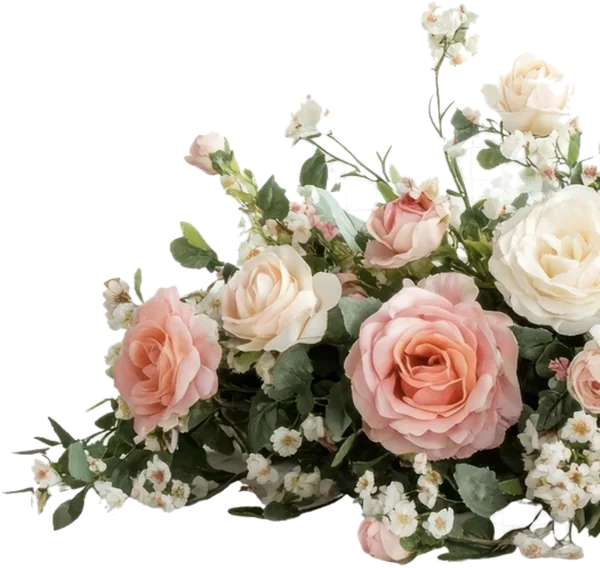
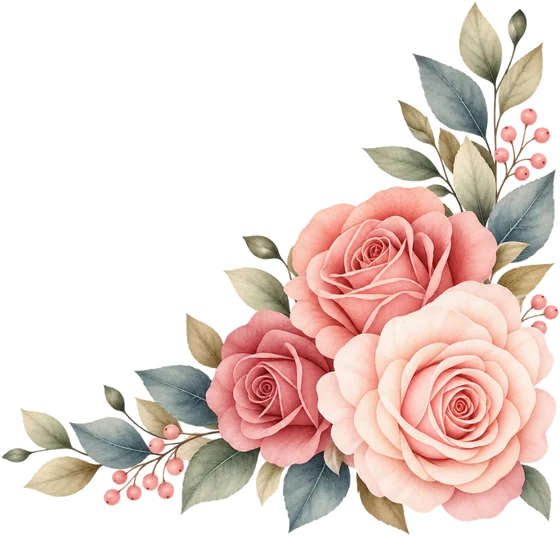
Replace the photographic flowers with the painted ones
The watercolour roses are already in the page's own dusty rose and sage,
so they sit with the type far better than the photographs did - and
mixing painted and photographic flowers would have clashed the same way
the drawn clip art once clashed with the photographs.

  3.png -> corner.webp   corner sprays, turned 180 so the blooms land in
                         the corner and the foliage trails inward
  4.png -> garland.webp  the swag along the foot of every passage
  5.png -> sprig.webp    the divider between passages, replacing the gold
                         rule and its rosette
  2.png -> rose.webp     one bloom, cropped out for the drifting petals

All four were cut from white by flood-filling in from the border, then
opening away the thin scraps. The pale petals survive because every
flower here is pink or sage while the paper is neutral.

The per-palette tints are much gentler now; these need nudging, not the
correction the photographs wanted. The swag keeps a soft top fade so the
last line of a passage stays legible where the foliage reaches it.

6.png is cut and ready in the scratch but unused - 3.png already covers
the corners.

diff --git a/index.html b/index.html
@@ -34,7 +34,7 @@ body{margin:0;font-family:var(--f-body);font-size:1rem;line-height:1.6;backgroun
   --gold:#9C5560; --goldhi:#EBD3CE;
   --ink:#7A2433;  --inkSoft:#9A5862; --inkFaint:rgba(122,36,51,.48);
   --accent:#C98B95; --leaf:#8A8E6B; --orn2:#B99C92;
-  --bloomTint:saturate(.72) hue-rotate(-5deg) brightness(.99) contrast(.96);
+  --bloomTint:none;
 }
 .haldi{
   --sky1:#A9C6CE; --sky2:#7A9FAD; --sky3:#54798C;
@@ -42,7 +42,7 @@ body{margin:0;font-family:var(--f-body);font-size:1rem;line-height:1.6;backgroun
   --gold:#C08A4E; --goldhi:#F0DCB8;
   --ink:#FFF6EE;  --inkSoft:rgba(255,246,238,.93); --inkFaint:rgba(255,246,238,.6);
   --accent:#D79A5A; --leaf:#7E8C66; --orn2:#D8C3A0;
-  --bloomTint:saturate(.78) hue-rotate(20deg) brightness(1.02) contrast(.95);
+  --bloomTint:hue-rotate(18deg) saturate(1.08);
 }
 .sangeet{
   --sky1:#3D3652; --sky2:#2A2439; --sky3:#191525;
@@ -50,7 +50,7 @@ body{margin:0;font-family:var(--f-body);font-size:1rem;line-height:1.6;backgroun
   --gold:#C9A47E; --goldhi:#EBD6BC;
   --ink:#F4E7DE;  --inkSoft:rgba(244,231,222,.88); --inkFaint:rgba(244,231,222,.56);
   --accent:#B98FA0; --leaf:#4A4162; --orn2:#8E7A86;
-  --bloomTint:saturate(.45) sepia(.28) brightness(.66) contrast(.95);
+  --bloomTint:saturate(.62) sepia(.2) brightness(.76);
 }
 .vivah{
   --sky1:#E9D9D3; --sky2:#DEB7A6; --sky3:#CF9B8D;
@@ -58,7 +58,7 @@ body{margin:0;font-family:var(--f-body);font-size:1rem;line-height:1.6;backgroun
   --gold:#A5603F; --goldhi:#EFD5BE;
   --ink:#6B2433;  --inkSoft:#8E4C52; --inkFaint:rgba(107,36,51,.5);
   --accent:#C98A78; --leaf:#8A8E6B; --orn2:#C6A592;
-  --bloomTint:saturate(.8) hue-rotate(4deg) brightness(1) contrast(.95);
+  --bloomTint:hue-rotate(4deg);
 }
 .reception{
   --sky1:#C6B4C8; --sky2:#A693B0; --sky3:#857791;
@@ -66,7 +66,7 @@ body{margin:0;font-family:var(--f-body);font-size:1rem;line-height:1.6;backgroun
   --gold:#D9BA96; --goldhi:#F0DCC6;
   --ink:#FBF1EC;  --inkSoft:rgba(251,241,236,.9); --inkFaint:rgba(251,241,236,.58);
   --accent:#C4A0BC; --leaf:#625873; --orn2:#B9A6B8;
-  --bloomTint:saturate(.62) hue-rotate(-16deg) brightness(.9) contrast(.95);
+  --bloomTint:hue-rotate(-14deg) saturate(.98);
 }
 
 /* ---------------- the fixed backdrop that crossfades ---------------- */
@@ -105,22 +105,18 @@ body{margin:0;font-family:var(--f-body);font-size:1rem;line-height:1.6;backgroun
 .sangeet .bokeh,.reception .bokeh{opacity:.9;animation:twinkle 7s ease-in-out infinite}
 @keyframes twinkle{0%,100%{filter:brightness(1)}50%{filter:brightness(1.45)}}
 /* real roses, cut from the photographs; each palette tints its own copy */
-.garland{position:absolute;left:50%;bottom:-6%;transform:translateX(-50%);
-  width:min(560px,106%);height:auto;filter:var(--bloomTint,none);
-  /* the tall stems dissolve into the sky instead of ending on a hard edge */
-  -webkit-mask-image:linear-gradient(to top,#000 58%,rgba(0,0,0,0) 100%);
-  mask-image:linear-gradient(to top,#000 58%,rgba(0,0,0,0) 100%)}
-/* sprays hanging from the top corners, turned over so the stems point up */
-.corner{position:absolute;top:0;width:min(186px,40%);height:auto;
-  filter:var(--bloomTint,none);opacity:.95;
-  /* in element space: solid at its foot, fading at its head. The 180deg turn
-     then puts the solid end against the top of the screen. */
-  -webkit-mask-image:linear-gradient(to top,#000 55%,rgba(0,0,0,0) 100%);
-  mask-image:linear-gradient(to top,#000 55%,rgba(0,0,0,0) 100%)}
-/* translate before rotate, so the shift stays in screen axes and lifts the
-   sprays toward the top edge instead of dropping them */
-.corner.l{left:-9%;transform:translateY(-19%) rotate(180deg)}
-.corner.r{right:-9%;transform:translateY(-19%) rotate(180deg) scaleX(-1)}
+.garland{position:absolute;left:50%;bottom:-3%;transform:translateX(-50%);
+  width:min(560px,104%);height:auto;filter:var(--bloomTint,none);
+  /* the topmost leaves fade out, so where the swag reaches a line of text
+     the words stay legible instead of sitting on painted foliage */
+  -webkit-mask-image:linear-gradient(to top,#000 68%,rgba(0,0,0,0) 100%);
+  mask-image:linear-gradient(to top,#000 68%,rgba(0,0,0,0) 100%)}
+/* painted corner sprays; the 180deg turn puts their blooms in the corner
+   and lets the foliage trail inward, so no mask is needed */
+.corner{position:absolute;top:0;width:min(208px,44%);height:auto;
+  filter:var(--bloomTint,none);opacity:.96}
+.corner.l{left:-3%;transform:rotate(180deg)}
+.corner.r{right:-3%;transform:rotate(180deg) scaleX(-1)}
 
 /* a long printed scroll has edges; these stay put while the words move */
 
@@ -169,10 +165,8 @@ main{position:relative;z-index:2}
 .band.haldi,.band.sangeet,.band.reception{text-shadow:0 1px 12px rgba(10,22,46,.5)}
 
 /* the join between one passage and the next */
-.seam{display:flex;align-items:center;gap:13px;width:min(260px,76%);margin:0 auto;padding-block:6px}
-.seam .r{flex:1;height:1px;background:linear-gradient(90deg,transparent,var(--gold),transparent);opacity:.75}
-.seam .s{width:13px;height:13px;color:var(--gold);flex:none}
-.seam .s svg{display:block;width:100%;height:100%}
+.seam{display:flex;justify-content:center;padding-block:2px}
+.seam img{width:min(236px,58%);height:auto;opacity:.9}
 
 a.btn,button.btn{
   font-family:var(--f-disp);font-size:.7rem;letter-spacing:.16em;text-transform:uppercase;
@@ -276,10 +270,6 @@ a.btn:focus-visible,button.btn:focus-visible,button:focus-visible,input:focus-vi
 </style>
 
 <svg width="0" height="0" aria-hidden="true" focusable="false" style="position:absolute">
-  <symbol id="rosette8" viewBox="0 0 40 40">
-      <path fill="currentColor" d="M24.42 20 Q24.42 25.1 37 20 Q24.42 14.9 24.42 20 Z M23.13 23.13 Q19.52 26.73 32.02 32.02 Q26.73 19.52 23.13 23.13 Z M20 24.42 Q14.9 24.42 20 37 Q25.1 24.42 20 24.42 Z M16.87 23.13 Q13.27 19.52 7.98 32.02 Q20.48 26.73 16.87 23.13 Z M15.58 20 Q15.58 14.9 3 20 Q15.58 25.1 15.58 20 Z M16.87 16.87 Q20.48 13.27 7.98 7.98 Q13.27 20.48 16.87 16.87 Z M20 15.58 Q25.1 15.58 20 3 Q14.9 15.58 20 15.58 Z M23.13 16.87 Q26.73 20.48 32.02 7.98 Q19.52 13.27 23.13 16.87 Z"/>
-      <circle cx="20" cy="20" r="3.2" fill="var(--orn2,#B99C92)"/>
-  </symbol>
 
   <symbol id="lotus" viewBox="0 0 48 30">
     <g fill="none" stroke="currentColor" stroke-width="1.2">
@@ -414,7 +404,7 @@ a.btn:focus-visible,button.btn:focus-visible,button:focus-visible,input:focus-vi
   <p class="caps strong">20 &amp; 21 November 2026 &middot; Lucknow</p>
 </section>
 
-<div class="seam"><span class="r"></span><span class="s"><svg><use href="#rosette8"/></svg></span><span class="r"></span></div>
+<div class="seam"><img src="assets/sprig.webp" alt="" decoding="async"></div>
 
 <section class="band ivory" data-label="The couple" aria-labelledby="h2">
   <p class="lede">With the blessings of Lord Ganesha and of the elders of our family</p>
@@ -434,7 +424,7 @@ a.btn:focus-visible,button.btn:focus-visible,button:focus-visible,input:focus-vi
   <p class="parent">Daughter of Late Mithlesh &amp; Mr. Chandra Prakash Srivastava</p>
 </section>
 
-<div class="seam"><span class="r"></span><span class="s"><svg><use href="#rosette8"/></svg></span><span class="r"></span></div>
+<div class="seam"><img src="assets/sprig.webp" alt="" decoding="async"></div>
 
 <section class="band ivory" data-label="Countdown" aria-labelledby="h3">
   <p class="eyebrow">Saturday, 21 November 2026</p>
@@ -453,7 +443,7 @@ a.btn:focus-visible,button.btn:focus-visible,button:focus-visible,input:focus-vi
   <p class="note" id="cdNote">Counted to 10:00 a.m. India Standard Time, when the baraat reaches the gate.</p>
 </section>
 
-<div class="seam"><span class="r"></span><span class="s"><svg><use href="#rosette8"/></svg></span><span class="r"></span></div>
+<div class="seam"><img src="assets/sprig.webp" alt="" decoding="async"></div>
 
 <section class="band haldi" data-label="Haldi" aria-labelledby="h4">
   <h2 id="h4" class="script evt">Haldi</h2>
@@ -469,7 +459,7 @@ a.btn:focus-visible,button.btn:focus-visible,button:focus-visible,input:focus-vi
   <a class="btn" target="_blank" rel="noopener" href="https://calendar.google.com/calendar/render?action=TEMPLATE&amp;text=Haldi%20%E2%80%94%20Saharsh%20weds%20Shreya&amp;dates=20261120T043000Z/20261120T073000Z&amp;location=Scorpio%20Club%2C%20Kursi%20Road%2C%20Lucknow&amp;details=Haldi%20ceremony%20of%20Saharsh%20and%20Shreya.">Add to calendar</a>
 </section>
 
-<div class="seam"><span class="r"></span><span class="s"><svg><use href="#rosette8"/></svg></span><span class="r"></span></div>
+<div class="seam"><img src="assets/sprig.webp" alt="" decoding="async"></div>
 
 <section class="band sangeet" data-label="Sangeet" aria-labelledby="h5">
   <h2 id="h5" class="script evt">Sangeet</h2>
@@ -485,7 +475,7 @@ a.btn:focus-visible,button.btn:focus-visible,button:focus-visible,input:focus-vi
   <a class="btn" target="_blank" rel="noopener" href="https://calendar.google.com/calendar/render?action=TEMPLATE&amp;text=Sangeet%20%E2%80%94%20Saharsh%20weds%20Shreya&amp;dates=20261120T123000Z/20261120T163000Z&amp;location=Scorpio%20Club%2C%20Kursi%20Road%2C%20Lucknow&amp;details=Sangeet%20evening%20of%20Saharsh%20and%20Shreya.">Add to calendar</a>
 </section>
 
-<div class="seam"><span class="r"></span><span class="s"><svg><use href="#rosette8"/></svg></span><span class="r"></span></div>
+<div class="seam"><img src="assets/sprig.webp" alt="" decoding="async"></div>
 
 <section class="band vivah" data-label="Shubh Vivah" aria-labelledby="h6">
   <h2 id="h6" class="script evt">Shubh Vivah</h2>
@@ -501,7 +491,7 @@ a.btn:focus-visible,button.btn:focus-visible,button:focus-visible,input:focus-vi
   <a class="btn" target="_blank" rel="noopener" href="https://calendar.google.com/calendar/render?action=TEMPLATE&amp;text=Shubh%20Vivah%20%E2%80%94%20Saharsh%20weds%20Shreya&amp;dates=20261121T043000Z/20261121T093000Z&amp;location=Scorpio%20Club%2C%20Kursi%20Road%2C%20Lucknow&amp;details=Wedding%20ceremony%20of%20Saharsh%20and%20Shreya.">Add to calendar</a>
 </section>
 
-<div class="seam"><span class="r"></span><span class="s"><svg><use href="#rosette8"/></svg></span><span class="r"></span></div>
+<div class="seam"><img src="assets/sprig.webp" alt="" decoding="async"></div>
 
 <section class="band reception" data-label="Reception" aria-labelledby="h7">
   <h2 id="h7" class="script evt">Grand Reception</h2>
@@ -517,7 +507,7 @@ a.btn:focus-visible,button.btn:focus-visible,button:focus-visible,input:focus-vi
   <a class="btn" target="_blank" rel="noopener" href="https://calendar.google.com/calendar/render?action=TEMPLATE&amp;text=Grand%20Reception%20%E2%80%94%20Saharsh%20weds%20Shreya&amp;dates=20261121T133000Z/20261121T173000Z&amp;location=Scorpio%20Club%2C%20Kursi%20Road%2C%20Lucknow&amp;details=Reception%20of%20Saharsh%20and%20Shreya.">Add to calendar</a>
 </section>
 
-<div class="seam"><span class="r"></span><span class="s"><svg><use href="#rosette8"/></svg></span><span class="r"></span></div>
+<div class="seam"><img src="assets/sprig.webp" alt="" decoding="async"></div>
 
 <section class="band ivory" data-label="Venue" aria-labelledby="h8">
   <p class="eyebrow">Venue</p>
@@ -540,7 +530,7 @@ a.btn:focus-visible,button.btn:focus-visible,button:focus-visible,input:focus-vi
   </ul>
 </section>
 
-<div class="seam"><span class="r"></span><span class="s"><svg><use href="#rosette8"/></svg></span><span class="r"></span></div>
+<div class="seam"><img src="assets/sprig.webp" alt="" decoding="async"></div>
 
 <section class="band ivory" data-label="Blessings" aria-labelledby="h9">
   <p class="deva devaSmall">&#2405; &#2358;&#2381;&#2352;&#2368; &#2327;&#2339;&#2375;&#2358;&#2366;&#2351; &#2344;&#2350;&#2307; &#2405;</p>
